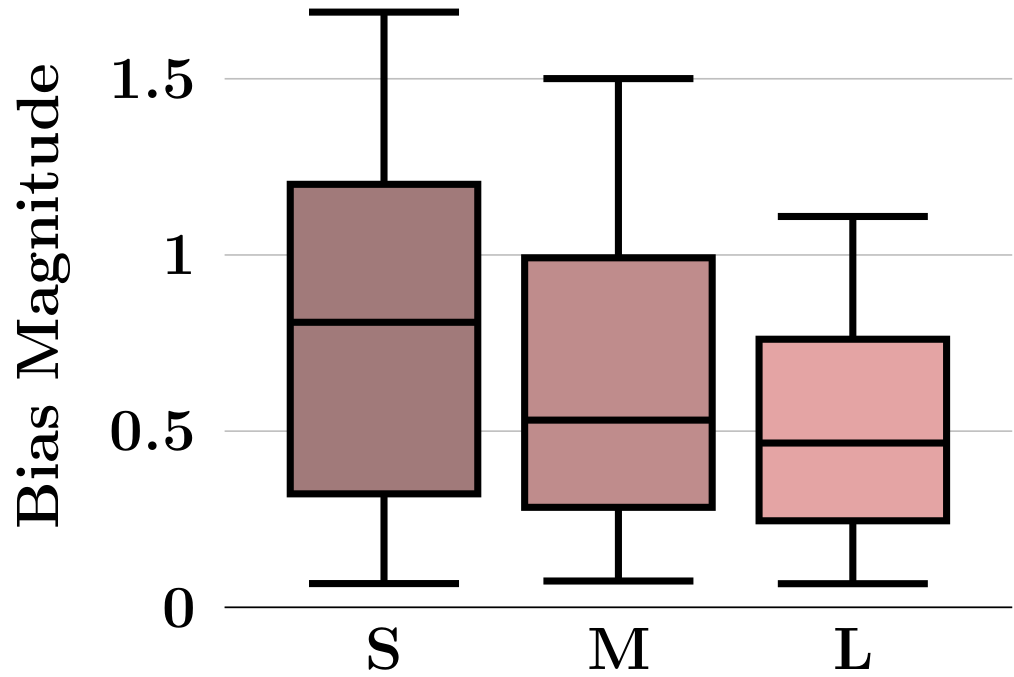
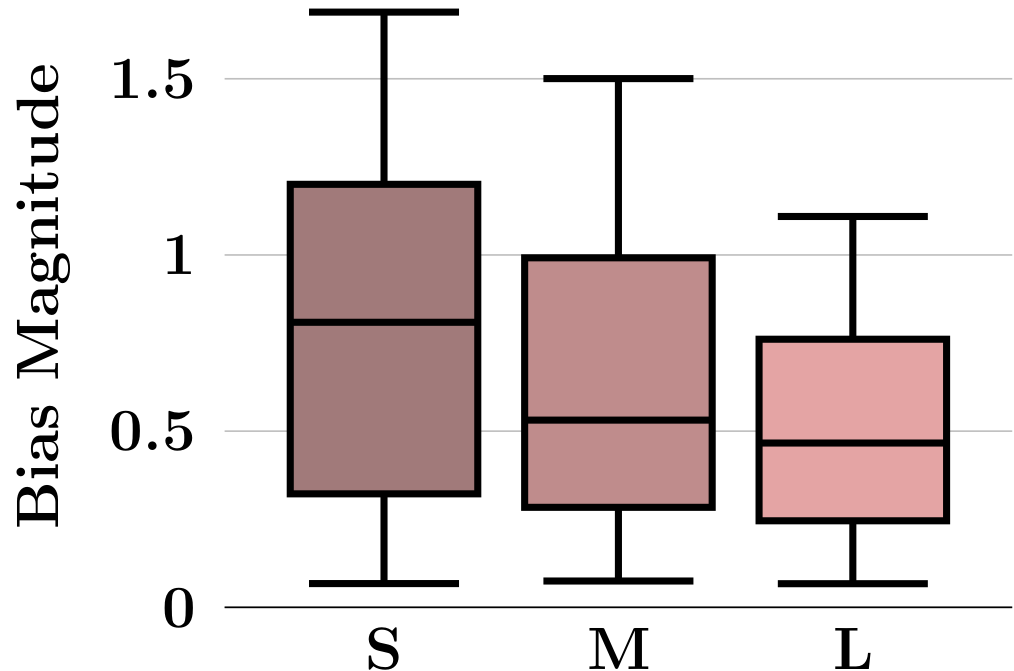
update

diff --git a/index.html b/index.html
@@ -31,9 +31,9 @@
             <div class="info-text">
               <h1>about me</h1>
               <p class="info-details">
-                  I am a Ph.D. student in Computer Science, at the University of Mannheim. 
+                  I am a Ph.D. student in Computer Science at the University of Mannheim. 
                   I am excited about understanding the emergent internal mechanisms of neural networks on complex tasks, such as multi-step reasoning, and using these insights to develop better methods.
-                  I completed a M.Sc. in Data Science at the University of Mannheim, and B.Sc. in Computer Science. 
+                  I completed a M.Sc. in Data Science (with distinction) at the University of Mannheim, and B.Sc. in Computer Science. 
 
               </p>
               <p class="info-btn">
@@ -67,13 +67,17 @@
                 <div class="p-content">
                   <div class="p-image" style="background-color: rgba(16,37,64,0.6);">
                   </div>
+                  <div class="p-title">
+                    <h2>03</h2>
+                    <h2>Planning in Transformers: Evidence for Backtracking Circuits in Transformers trained on Tree Traversal</h2>
+                  </div>
                   <div class="p-details">
                     <div class="p-icon-container">
-                      <img class="p-icon" src="assets/icons/file-lines-regular.svg">
+                      <img class="p-icon" src="assets/icons/book.svg">
                       <div class="p-icon-desc">To appear at EMNLP 2023 BlackboxNLP Workshop</div>
                     </div>
                   </div>
-                  <div class="p-title">Planning in Transformers: Evidence for Backtracking Circuits in Transformers trained on Tree Traversal</div>
+                  <div class="p-title"></div>
                   <div class="p-description">A. Sheshadri*, J. Brinkmann*, V. Levoso*</div>
                   <div class="p-links">
                   </div>
@@ -87,15 +91,18 @@
               <div class="p-card">
                 <div class="p-content">
                   <div class="p-image" style="background-color: rgba(226,163,163,0.2);">
-                    <img src="assets/images/iccv2023.png"/>
+                    <img style="height: 75%;" src="assets/images/iccv2023.png"/>
+                  </div>
+                  <div class="p-title">
+                    <h2>02</h2>
+                    <h2>A Multidimensional Analysis of Social Biases in Vision Transformers</h2>
                   </div>
                   <div class="p-details">
                     <div class="p-icon-container">
-                      <img class="p-icon" src="assets/icons/file-lines-regular.svg">
+                      <img class="p-icon" src="assets/icons/book.svg">
                       <div class="p-icon-desc">ICCV 2023</div>
                     </div>
                   </div>
-                  <div class="p-title">A Multidimensional Analysis of Social Biases in Vision Transformers</div>
                   <div class="p-description">J. Brinkmann, P. Swoboda, C. Bartelt</div>
                   <div class="p-links">
                     <a class="p-btn" href="https://arxiv.org/pdf/2308.01948.pdf">PAPER</a>
@@ -112,13 +119,16 @@
                   <div class="p-image" style="background-color: rgba(145,152,159,0.2);">
                     <img src="assets/images/hicss2024.png"/>
                   </div>
+                  <div class="p-title">
+                    <h2>01</h2>
+                    <h2>Unsupervised Extraction of Test Scenarios from Time-Series Sensor Data using Trace Graphs</h2>
+                  </div>
                   <div class="p-details">
                     <div class="p-icon-container">
-                      <img class="p-icon" src="assets/icons/file-lines-regular.svg">
+                      <img class="p-icon" src="assets/icons/book.svg">
                       <div class="p-icon-desc">To appear at HICSS 2024</div>
                     </div>
                   </div>
-                  <div class="p-title">Unsupervised Extraction of Test Scenarios from Time-Series Sensor Data using Trace Graphs</div>
                   <div class="p-description">J. Brinkmann, N. Metzger, C. Bartelt</div>
                   <div class="p-links">
                   </div>

diff --git a/style.css b/style.css
@@ -5,11 +5,17 @@
     font-weight: normal;
     font-style: normal;
 }
+@font-face {
+    font-family: 'Athletics-Medium';
+    src: url('fonts/Athletics-Medium.woff2') format('woff2');
+    font-weight: normal;
+    font-style: normal;
+}
 body {
     background-color: white;
     color: #3c4043;
-    font-family: 'Athletics', sans-serif;
     font-size: 18px;
+    font-family: 'Athletics', sans-serif;
     line-height: 1.4;
     margin: 0;
 }
@@ -21,6 +27,10 @@ h1 {
     font-weight: normal;
     margin: 0 0 10px 0;
     padding: 0;
+}
+h2 {
+    font-size: 18px;
+    font-weight: normal;
 }
 
 
@@ -130,7 +140,7 @@ nav {
 }
 .p-content {
     height: calc(100% - 45px);
-    width: 86%;
+    width: calc(100% - 45px);
     padding: 0px;
     position: relative;
 }
@@ -168,12 +178,25 @@ nav {
     font-weight: normal;
     margin-top: 15px;
     margin-bottom: 12px;
+    display: flex;
+   align-items: center;
 }
+.p-title h2:first-child {
+    white-space: nowrap; /* Prevents the number from breaking into multiple lines */
+    align-self: flex-start;
+    color: #9aa0a6;
+    margin: 0 10px 0 0;
+  }
+  
+  .p-title h2:last-child {
+    flex-grow: 1; /* Allows the title to take up the remaining space */
+    margin: 0 10px 0 0;
+  }
 .p-details{
     align-items: center;
     display: flex;       
-    margin-top: 15px;
-    margin-bottom: 15px;
+    margin-top: 12px;
+    margin-bottom: 12px;
 }
 .p-icon-container {
     display: flex;
@@ -188,17 +211,16 @@ nav {
     filter: invert(22%) sepia(8%) saturate(377%) hue-rotate(163deg) brightness(100%) contrast(92%);
 }
 .p-icon-desc {
-    padding-left: 10px;
-    margin-right: 20px;
-    padding-top: 3px;
+    padding-left: 6px;
     display: flex;   
     font-size: 16px;    
-    color: #3c4043;
+    color: #333;
 }
 .p-description {
     font-size: 16px;
     font-weight: 100;
     text-align: justify;
+    margin-left: 2px;
 }
 .p-links {
     width: 350px; 
@@ -216,8 +238,8 @@ nav {
 }
 .p-btn {
     padding-top: 2px;
-    min-width: 78px;
-    height: 32px;
+    min-width: 72px;
+    height: 30px;
     display: inline-block;
     display: flex;
     border: 1px solid #dadce0;
@@ -227,7 +249,7 @@ nav {
     cursor: pointer;
     text-decoration: none;
     font-size: 12px;
-    margin-right: 20px;
+    margin-right: 15px;
     color: #393939;
 }
 .p-btn:hover {
@@ -263,17 +285,19 @@ nav {
     flex-direction: column;
     align-items: flex-start; /* Align children to the left */
     flex: 1 1 calc(33.333% - 20px);
-    min-width: 300px;
-    max-width: 410px;
+    min-width: 320px;
+    max-width: 320px;
 }
 
 .text-above-card p {
     font-size: 18px;
     font-style: bold;
+    font-family: 'Athletics-Medium', sans-serif;
     color: #333;
     margin-bottom: 10px; /* Keep this margin reasonable */
     width: 86%; /* Match this with .p-content width inside .p-card */
     text-align: left;
+    margin-left: 5px;
 }
 
 .text-placeholder {
